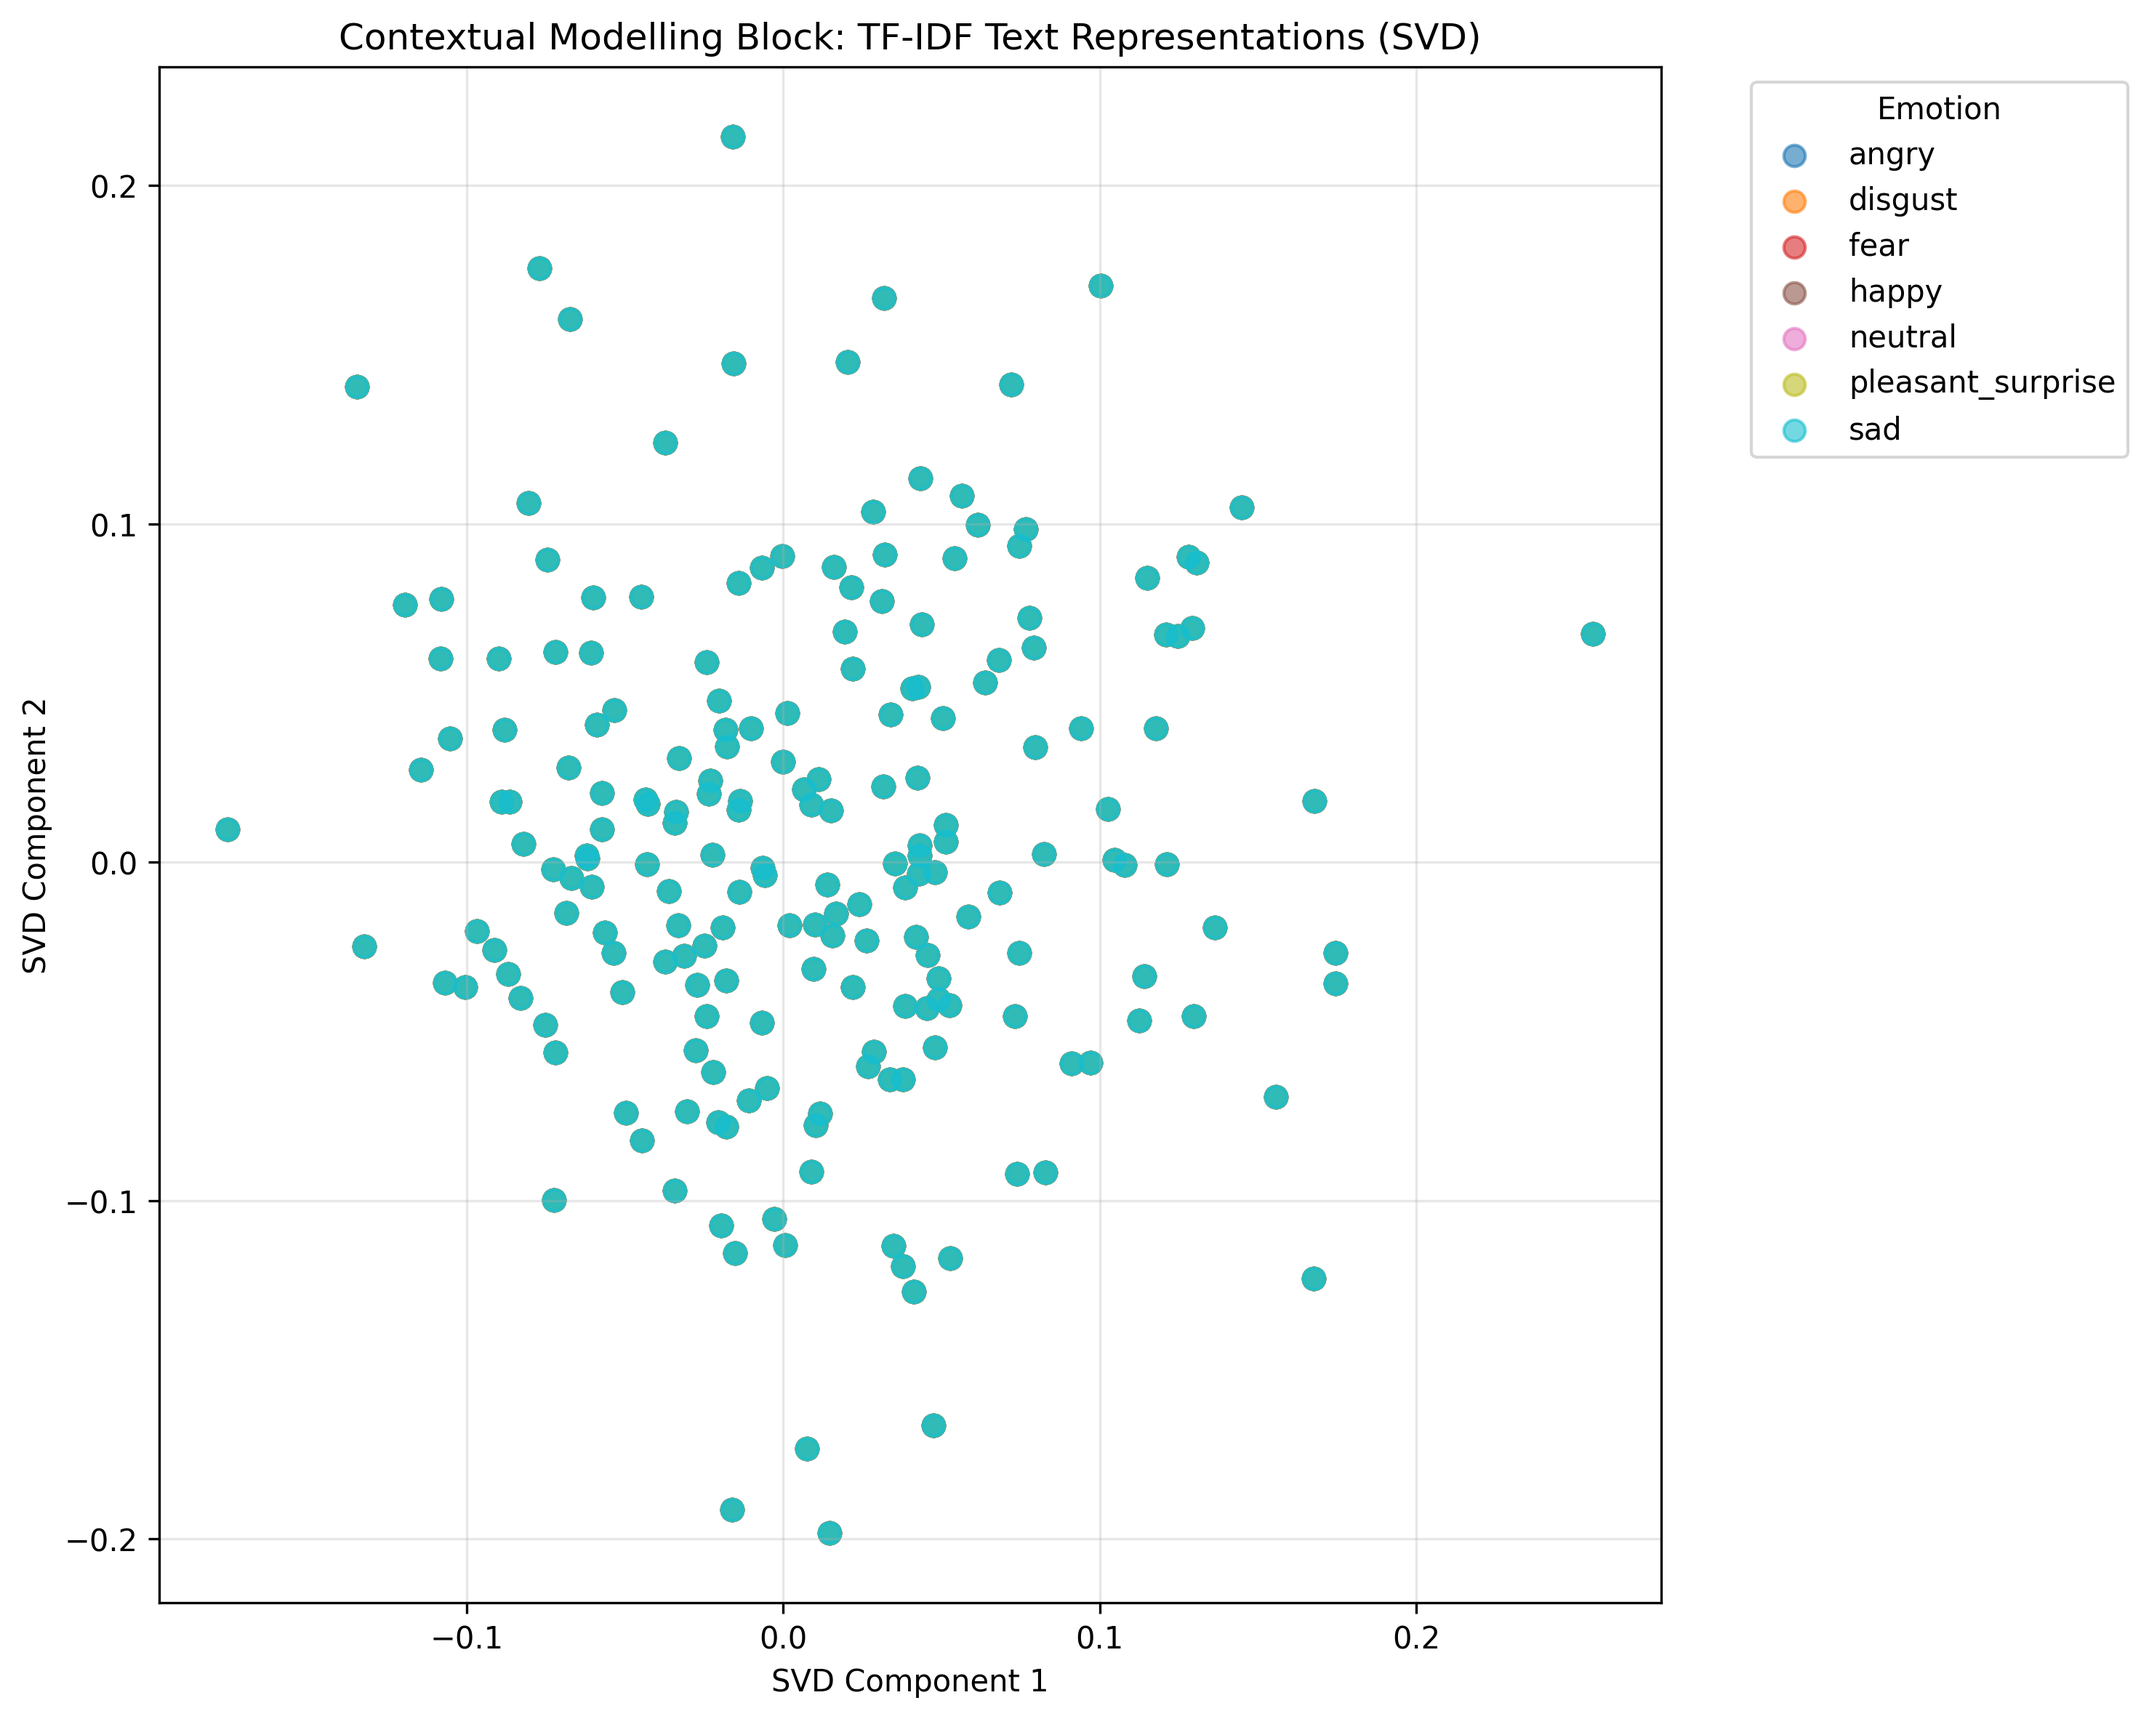
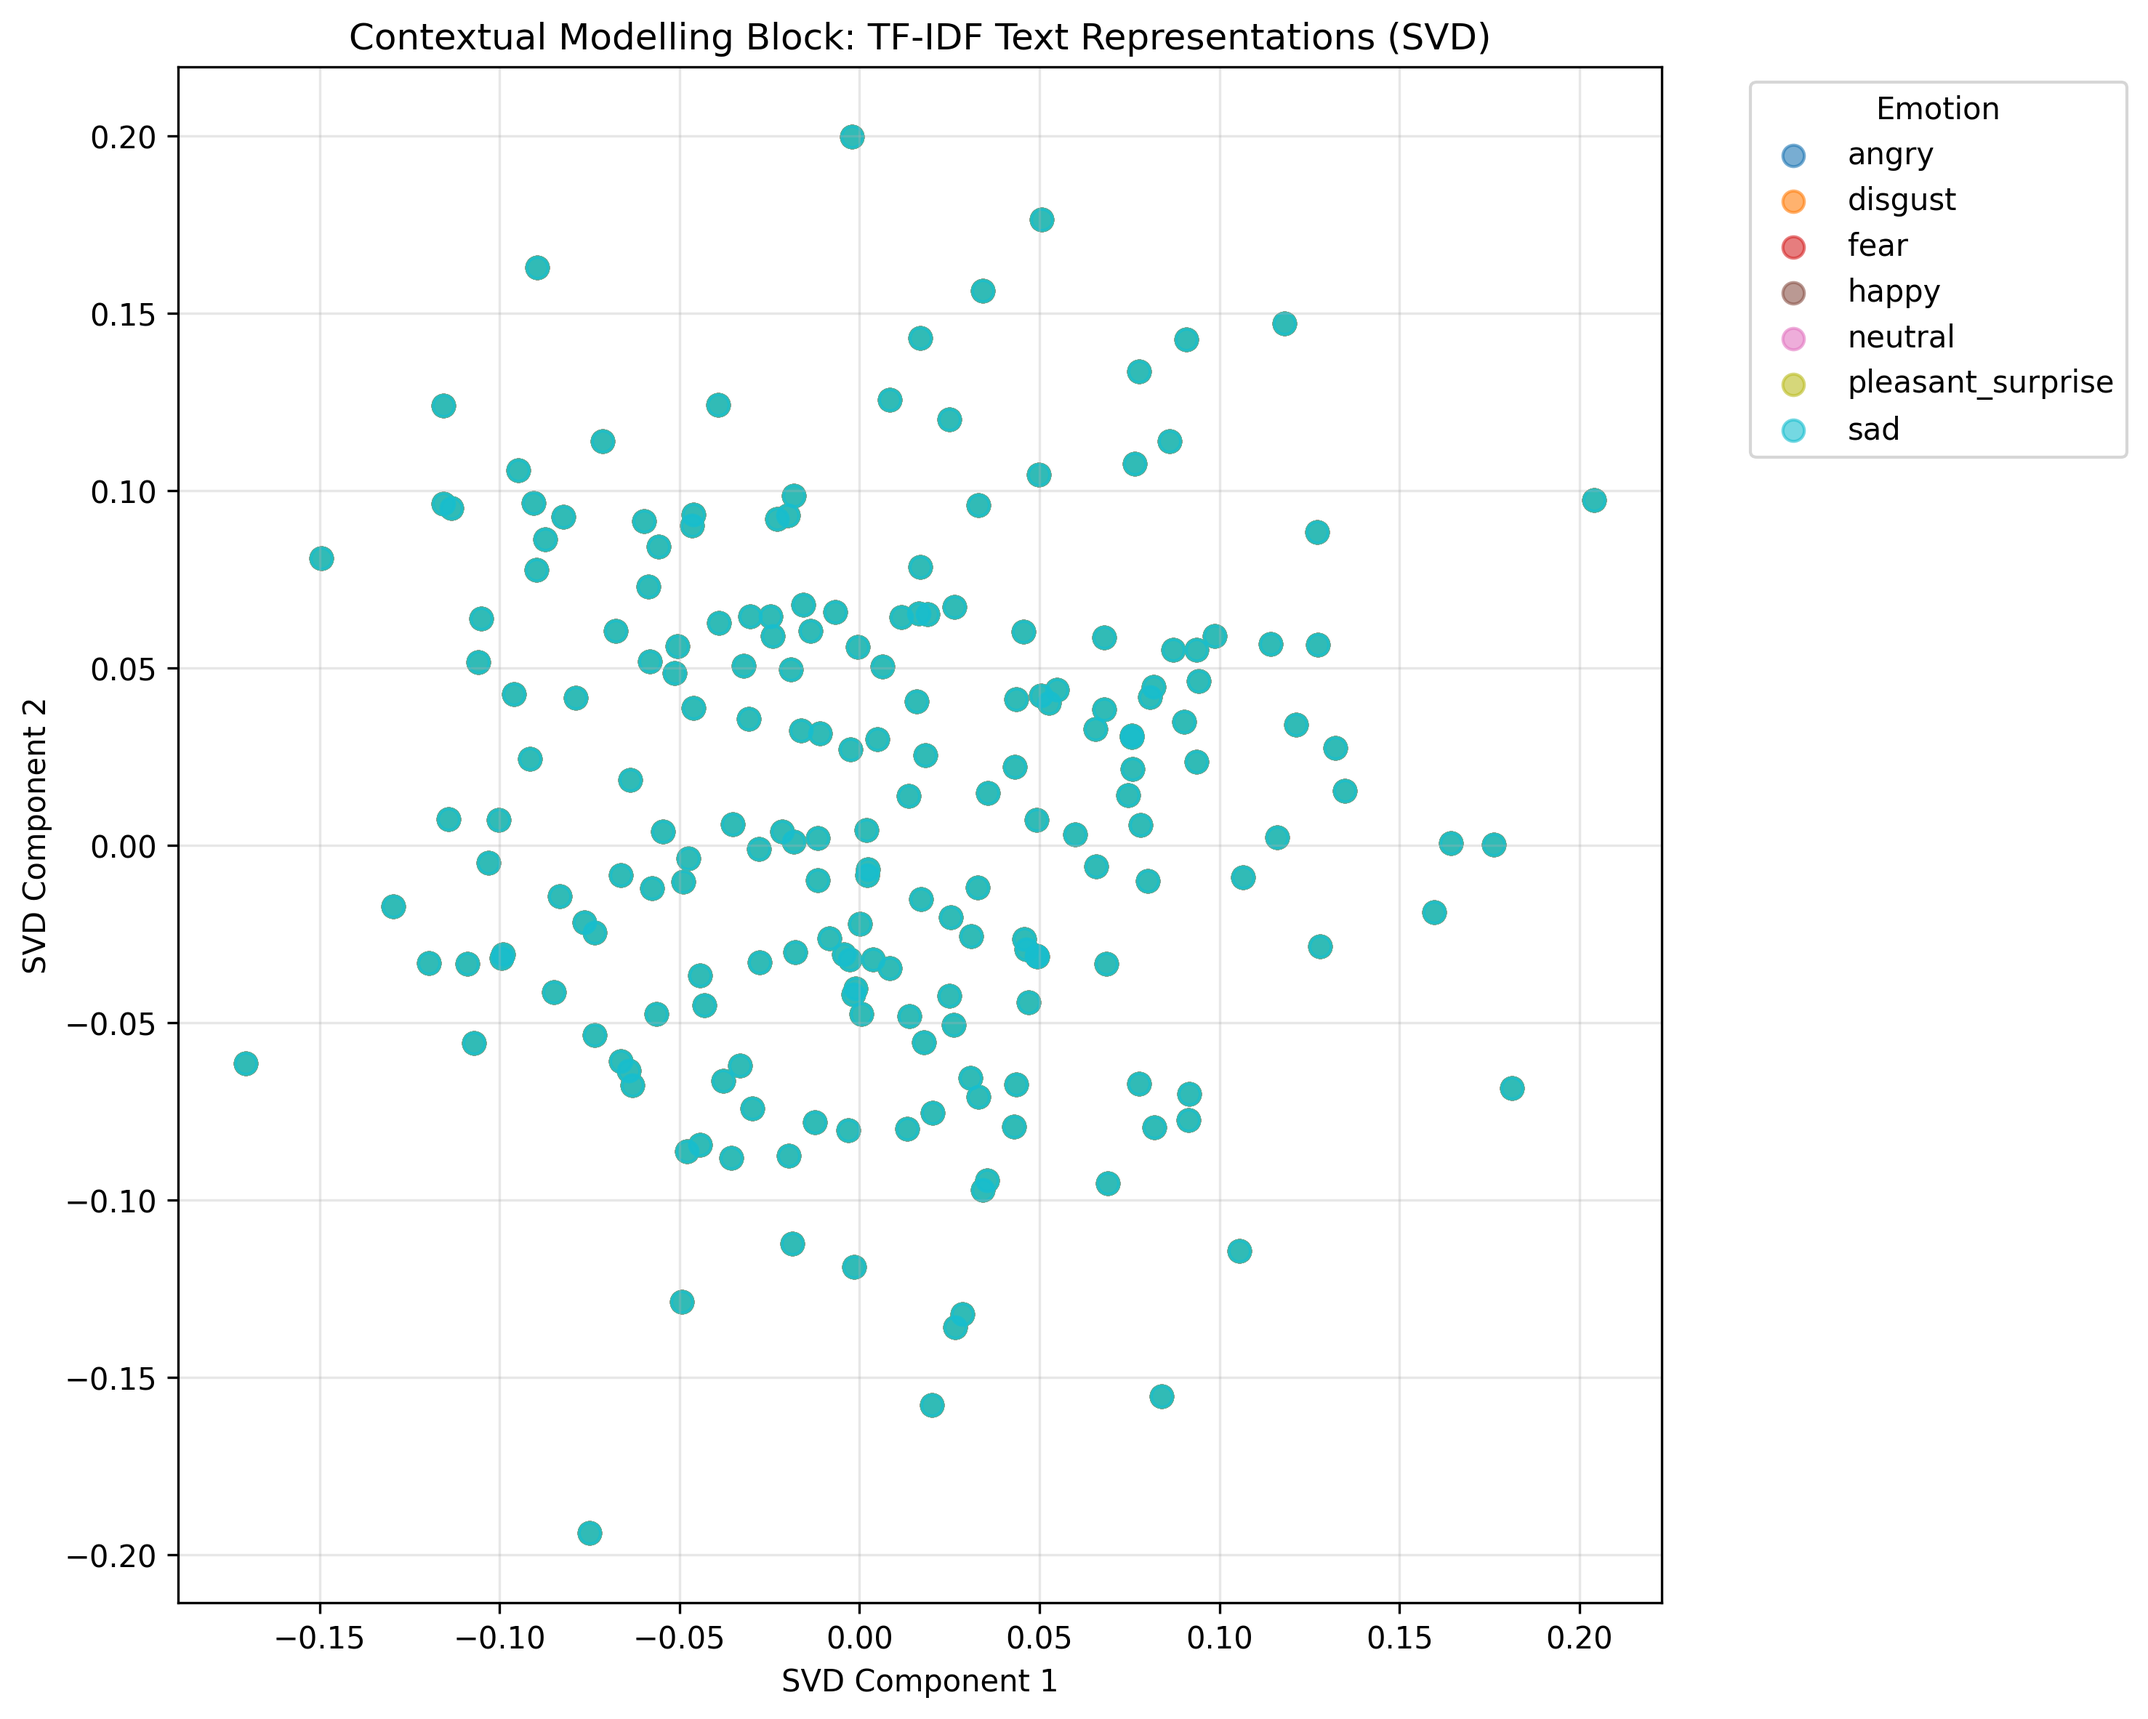
some more changes

diff --git a/models/visualize_representations.py b/models/visualize_representations.py
@@ -176,17 +176,21 @@ def project_dense_features(features):
 
 
 def plot_speech_model_evolution(df):
-    """Plot 4: Compare MFCC, Wav2Vec2, and Emotion2Vec+ feature geometry."""
-    print("\nGenerating Speech Model Evolution Plot...")
+    """Plot 4: Compare MFCC, Generic Wav2Vec2, Emotion-Finetuned Wav2Vec2, and Emotion2Vec+ feature geometry."""
+    print("\nGenerating Speech Model Evolution Plot (All 4 Stages)...")
 
     mfcc_features = build_audio_feature_matrix(df["audio_path"].tolist())
     wav2vec_df = joblib.load(ROOT / "Results" / "embedding_cache" / "wav2vec2_base_embeddings.joblib")
+    emotion_ft_df = joblib.load(ROOT / "Results" / "embedding_cache" / "wav2vec2_large_robust_12_ft_emotion_msp_dim_embeddings.joblib")
     emotion2vec_features = np.vstack(df["embedding"].to_list())
+    
     wav2vec_features = np.vstack(wav2vec_df["embedding"].to_list())
+    emotion_ft_features = np.vstack(emotion_ft_df["embedding"].to_list())
 
     projections = [
         ("Stage 1: MFCC Baseline", project_dense_features(mfcc_features)),
-        ("Stage 2: Wav2Vec2", project_dense_features(wav2vec_features)),
+        ("Stage 2: Generic Wav2Vec2", project_dense_features(wav2vec_features)),
+        ("Stage 3: Emotion-Finetuned Wav2Vec2", project_dense_features(emotion_ft_features)),
         ("Stage 4: Emotion2Vec+ Champion", project_dense_features(emotion2vec_features)),
     ]
 
@@ -195,7 +199,7 @@ def plot_speech_model_evolution(df):
     colors = plt.cm.tab10(np.linspace(0, 1, len(unique_emotions)))
     emotion_to_color = {emotion: colors[i] for i, emotion in enumerate(unique_emotions)}
 
-    fig, axes = plt.subplots(1, 3, figsize=(18, 6), sharex=False, sharey=False)
+    fig, axes = plt.subplots(1, 4, figsize=(24, 6), sharex=False, sharey=False)
     for ax, (title, points) in zip(axes, projections):
         for emotion in unique_emotions:
             mask = emotions == emotion
@@ -213,9 +217,9 @@ def plot_speech_model_evolution(df):
         ax.grid(True, alpha=0.25)
 
     handles, labels = axes[-1].get_legend_handles_labels()
-    fig.legend(handles, labels, title="Emotion", loc="center right")
-    fig.suptitle("Speech Representation Evolution Across Model Stages")
-    plt.tight_layout(rect=[0, 0, 0.88, 0.94])
+    fig.legend(handles, labels, title="Emotion", loc="center right", bbox_to_anchor=(1.12, 0.5))
+    fig.suptitle("Speech Representation Evolution Across All 4 Model Stages")
+    plt.tight_layout(rect=[0, 0, 0.92, 0.94])
 
     output_path = ROOT / "Results" / "plots" / "speech_model_evolution.png"
     plt.savefig(output_path, dpi=300, bbox_inches="tight")

diff --git a/README.md b/README.md
@@ -8,7 +8,21 @@ This project studies emotion recognition on the Toronto Emotional Speech Set (TE
 2. **text only**
 3. **speech + text fusion**
 
-The project begins with simple baselines, then improves the speech model through several stages, culminating in a staged improvement in speaker-holdout speech accuracy:
+## Final Pipeline Results (Speaker-Holdout Evaluation)
+
+| Pipeline | Representation | Accuracy |
+| --- | --- | ---: |
+| Speech-only | Emotion2Vec+ embeddings | **99.86%** |
+| Text-only | TF-IDF features | **14.29%** |
+| Fusion | Speech + Text combined | **99.86%** |
+
+**Key Finding:** Text carries virtually no emotion information on TESS (14.29% = chance level). High-quality speech representations completely dominate; fusion adds zero value.
+
+---
+
+## Project Development: Four-Stage Speech Model Evolution
+
+The project evolved the speech model through four stages to reach the final 99.86% accuracy:
 
 | Stage | Model | Speaker-holdout accuracy |
 | --- | --- | ---: |
@@ -17,7 +31,13 @@ The project begins with simple baselines, then improves the speech model through
 | 3 | Emotion-finetuned Wav2Vec2 | 84.89% |
 | 4 | Emotion2Vec+ champion | 99.86% |
 
-For context, the original easy random-split baselines were:
+**Lesson:** Better representations matter far more than classifier complexity.
+
+---
+
+## Historical Context: Random-Split Baselines
+
+For reference, the original random-split evaluation (before speaker-holdout) produced misleading results:
 
 | Early baseline | Random-split accuracy |
 | --- | ---: |
@@ -25,7 +45,9 @@ For context, the original easy random-split baselines were:
 | Text-only TF-IDF | 0.00% |
 | Fusion MFCC + TF-IDF | 99.82% |
 
-Those random-split values are kept as historical context; the final project comparison uses speaker holdout because it is a more honest cross-speaker test.
+These were abandoned in favor of speaker-holdout because they mixed both speakers into both train and test sets, hiding overfitting to speaker identity.
+
+---
 
 ## Recommended Reading Order
 

diff --git a/Results/plots/README.md b/Results/plots/README.md
@@ -2,7 +2,7 @@
 
 | File | What it shows |
 | --- | --- |
-| `speech_model_evolution.png` | Side-by-side speech representation progression: MFCC, generic Wav2Vec2, and final Emotion2Vec+. |
+| `speech_model_evolution.png` | Side-by-side speech representation progression across all 4 stages: MFCC baseline, generic Wav2Vec2, emotion-finetuned Wav2Vec2, and final Emotion2Vec+ champion. |
 | `speech_representation_pca.png` | Final speech embedding space from the temporal modelling block. |
 | `text_representation_svd.png` | Text representation space from the contextual modelling block; classes overlap strongly. |
 | `fusion_representation_pca.png` | Fused speech + text representation space from the fusion block. |
